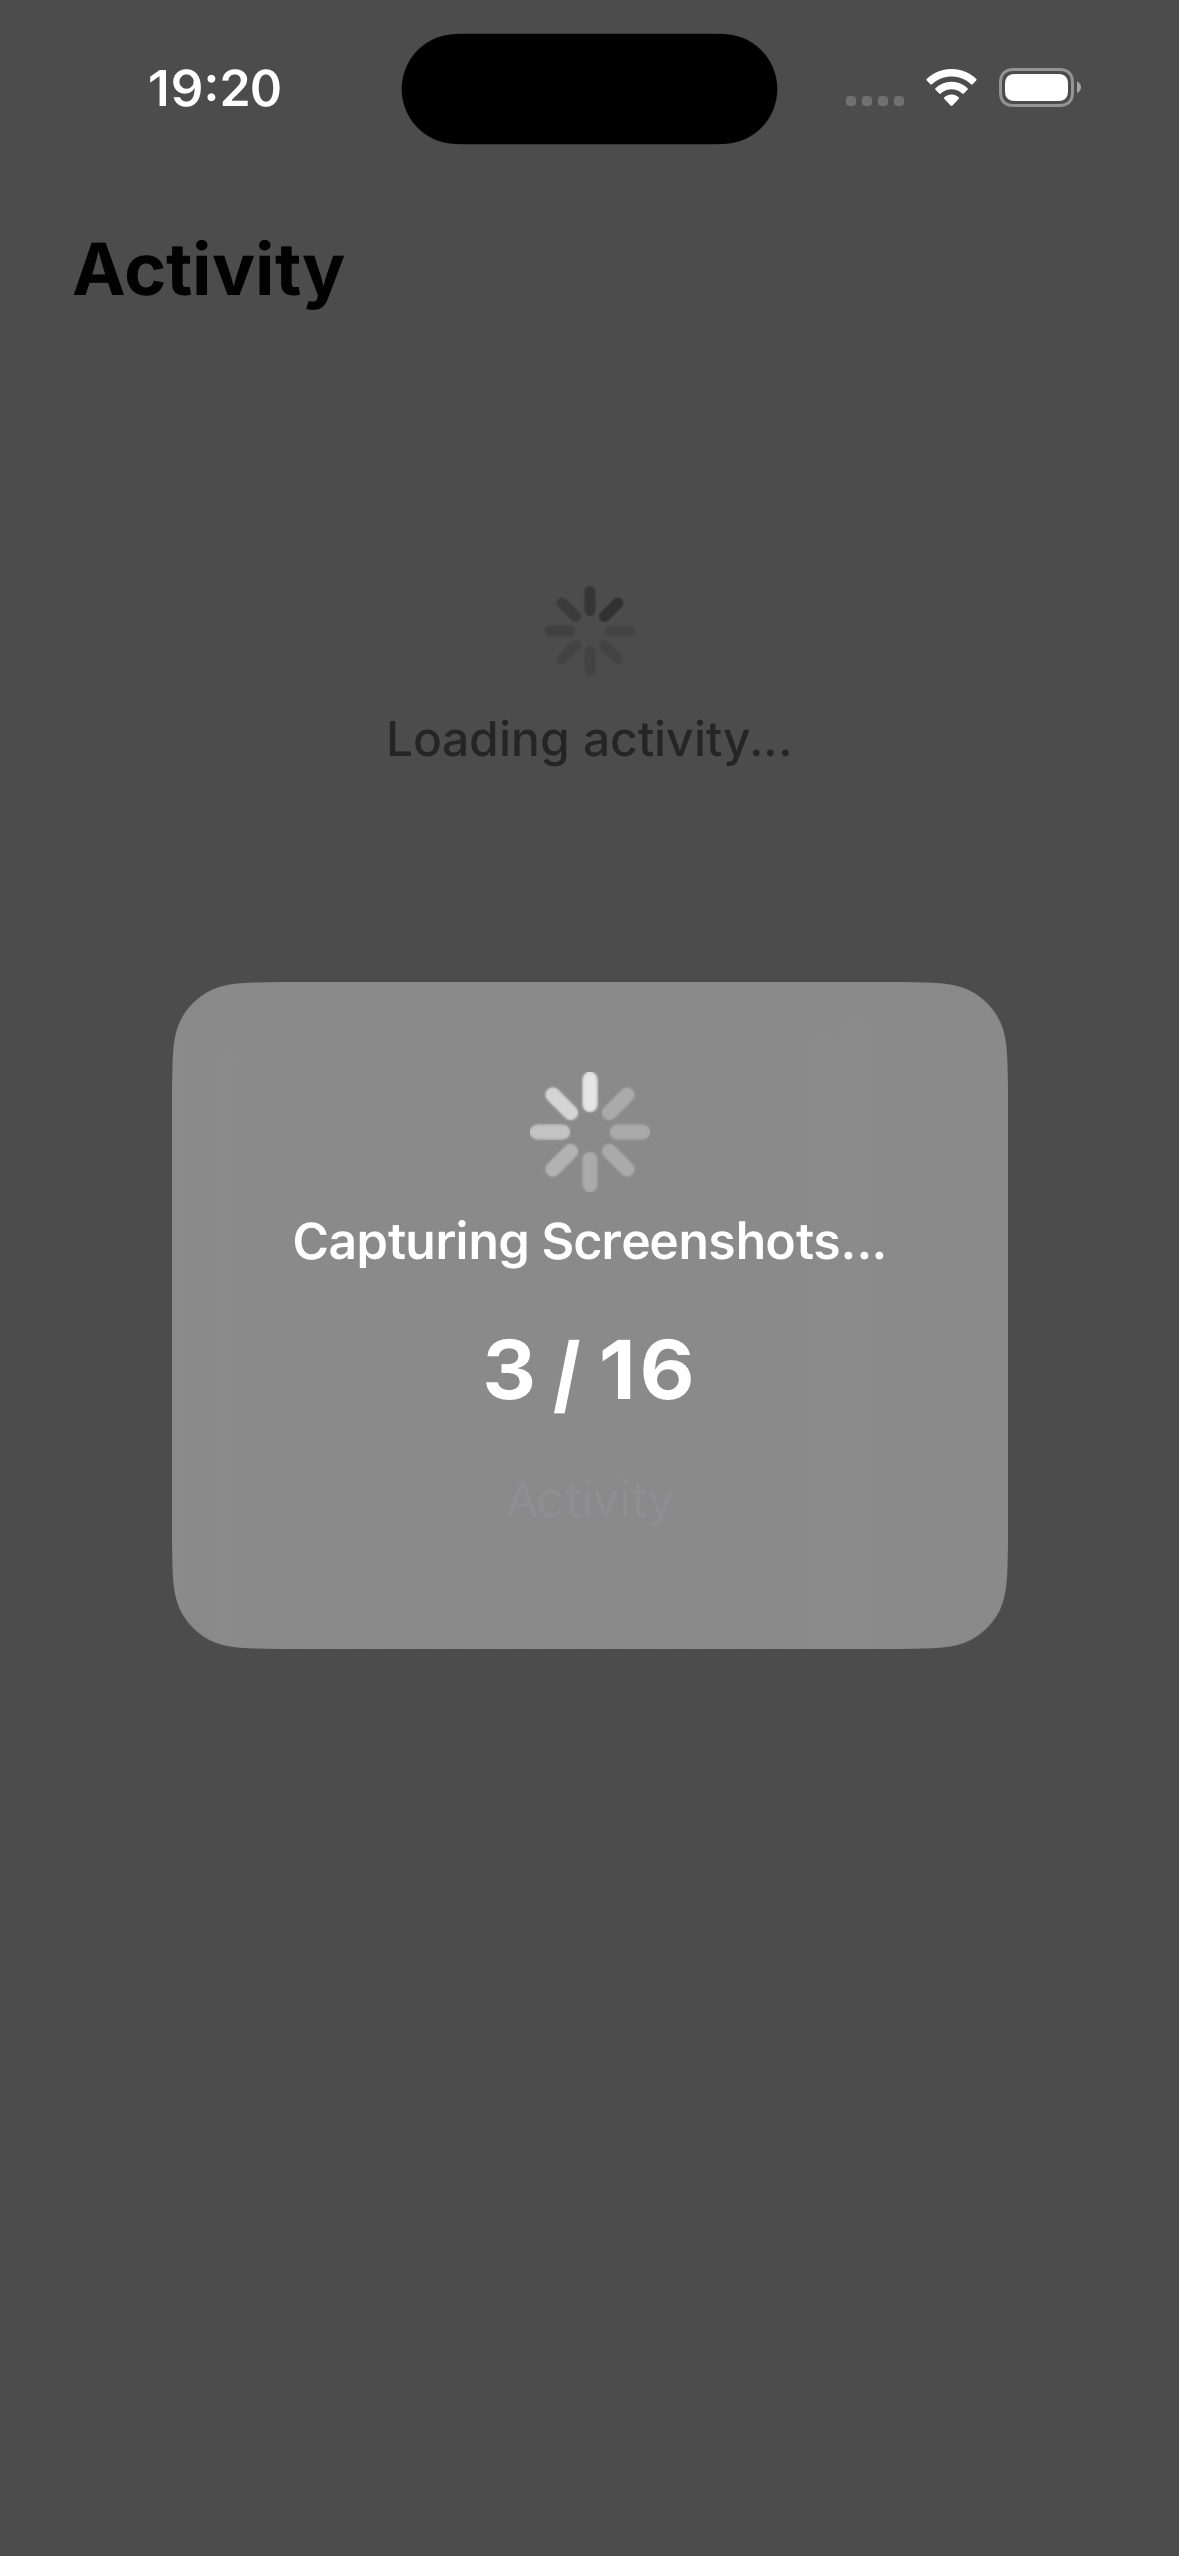
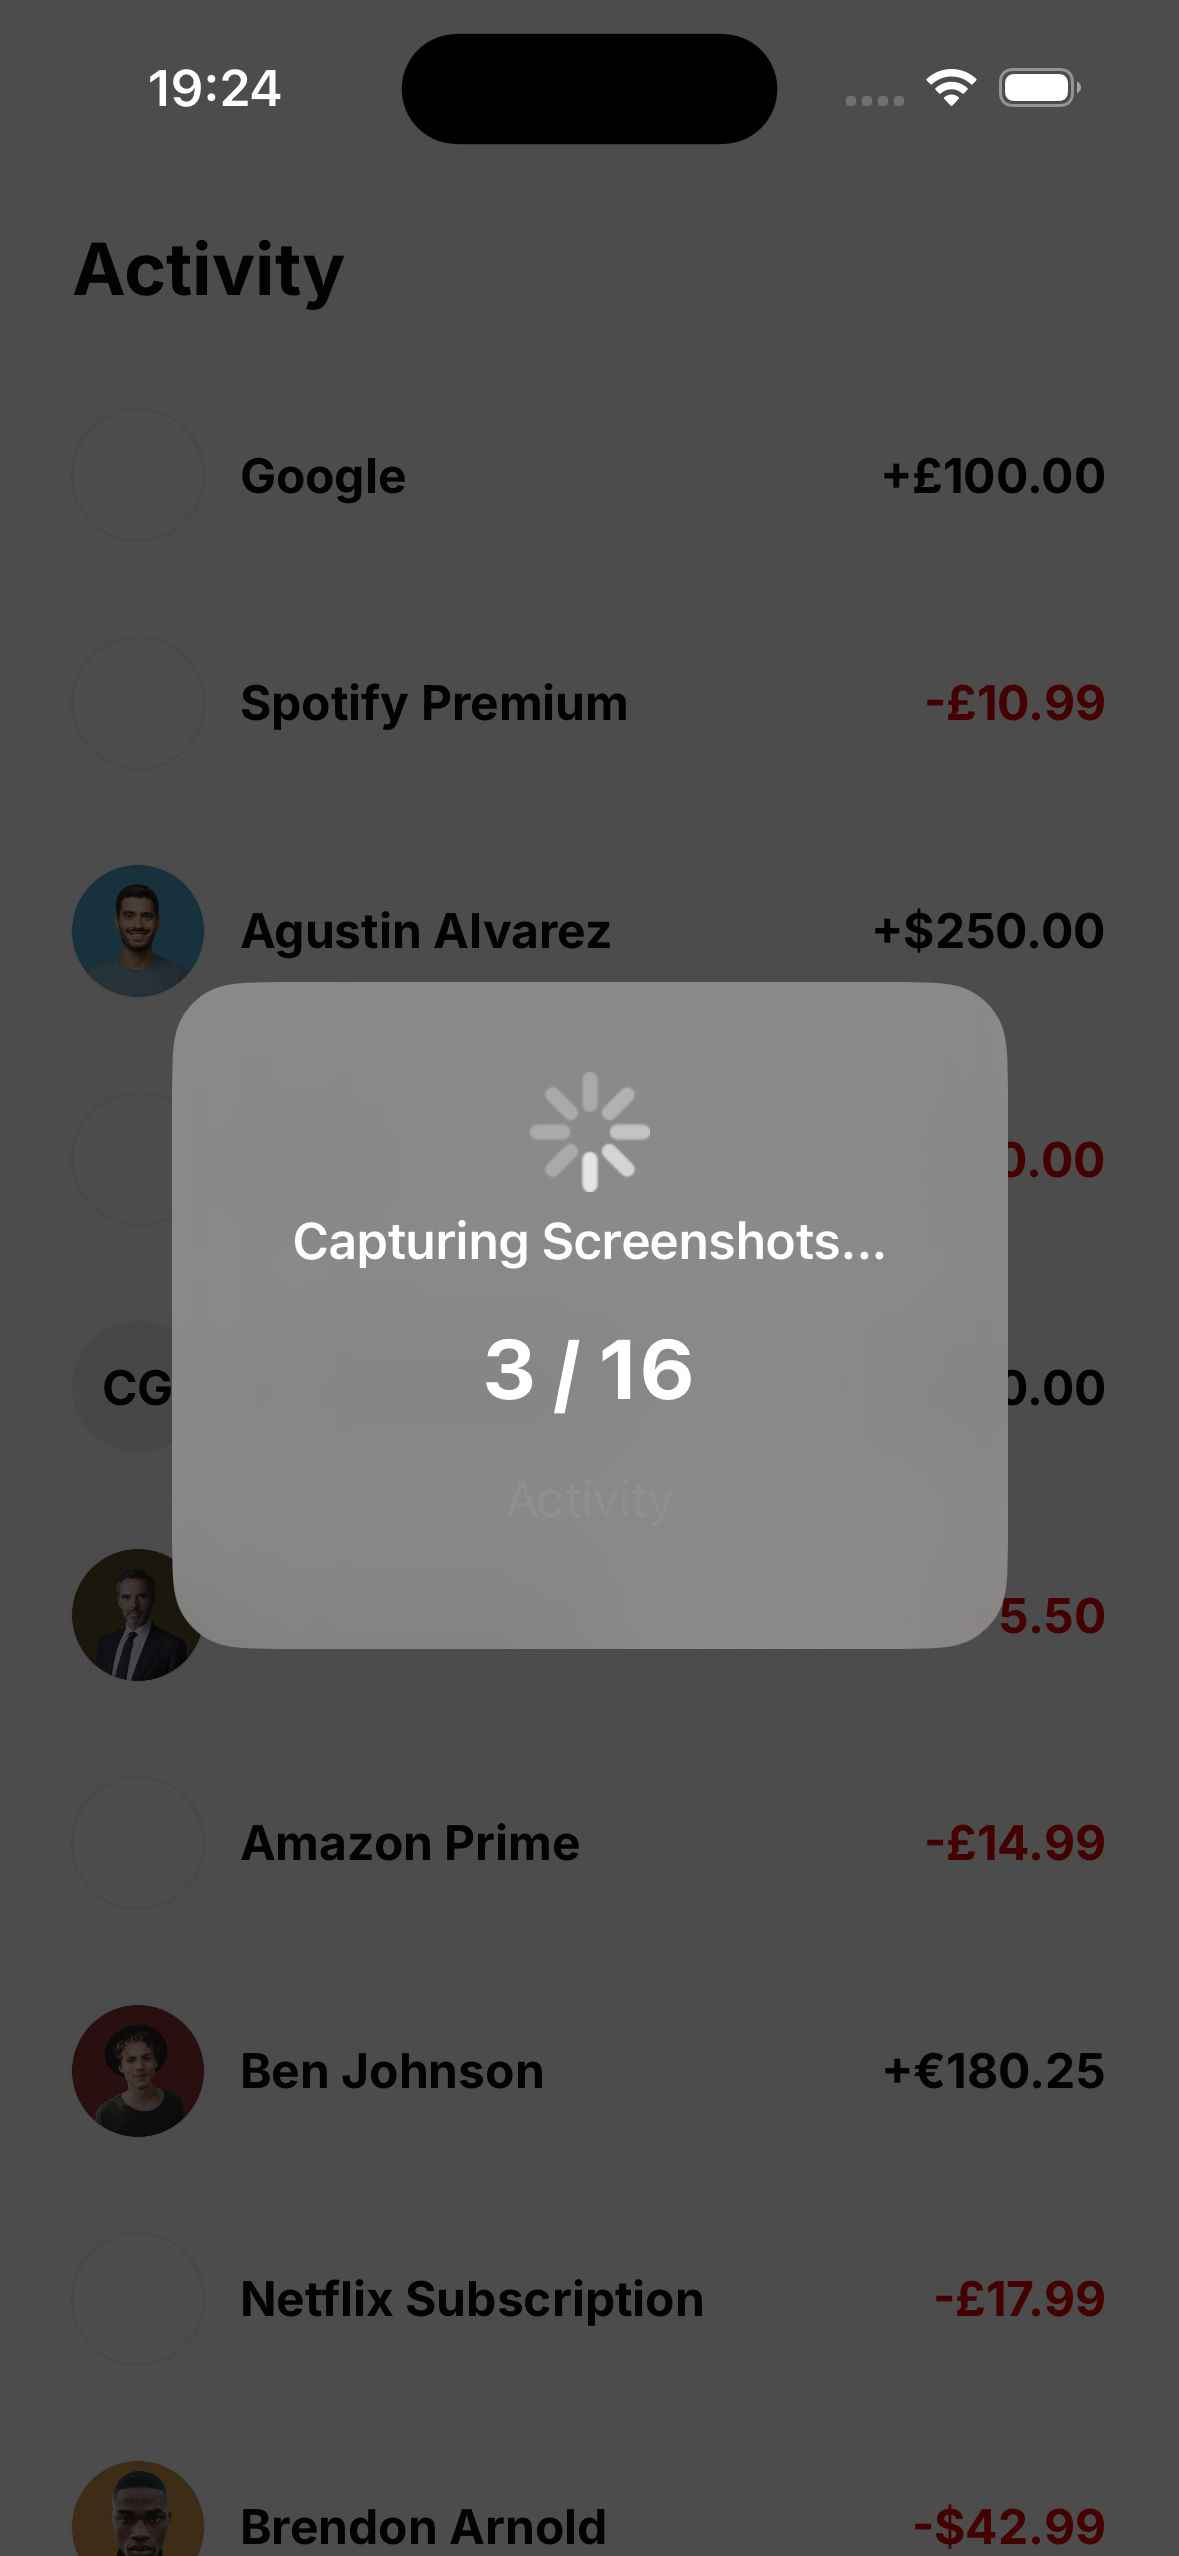
Clean screenshots without overlay

diff --git a/sling-test-app-2/ScreenshotMode.swift b/sling-test-app-2/ScreenshotMode.swift
@@ -203,16 +203,25 @@ struct ScreenshotModeView: View {
         
         currentIndex = capturedCount
         
-        // Wait for render, then signal capture
-        DispatchQueue.main.asyncAfter(deadline: .now() + 2.0) {
-            // Print marker for external capture tool
-            print("📸 APPSHOT_CAPTURE:\(screens[currentIndex].id):\(screens[currentIndex].name)")
+        // Wait for screen to render
+        DispatchQueue.main.asyncAfter(deadline: .now() + 1.5) {
+            // HIDE the overlay before capture
+            isAutoCapturing = false
+            hideControls = true
             
-            capturedCount += 1
-            
-            // Next screen
+            // Wait for overlay to disappear, then signal capture
             DispatchQueue.main.asyncAfter(deadline: .now() + 0.5) {
-                captureNext()
+                // Print marker for external capture tool
+                print("📸 APPSHOT_CAPTURE:\(screens[currentIndex].id):\(screens[currentIndex].name)")
+                
+                // Show overlay again and continue
+                DispatchQueue.main.asyncAfter(deadline: .now() + 0.5) {
+                    isAutoCapturing = true
+                    capturedCount += 1
+                    
+                    // Next screen
+                    captureNext()
+                }
             }
         }
     }
